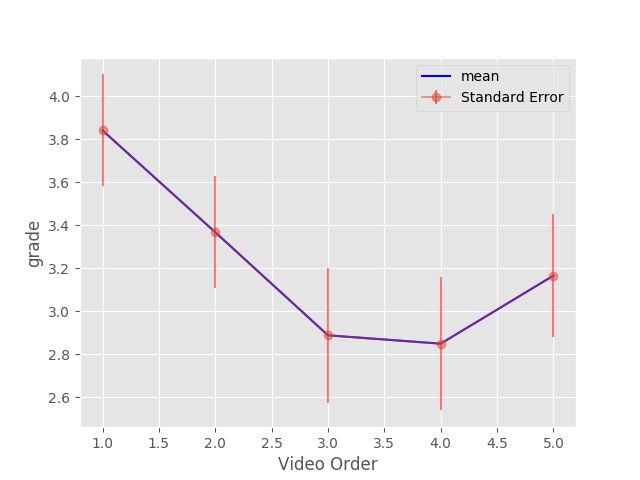
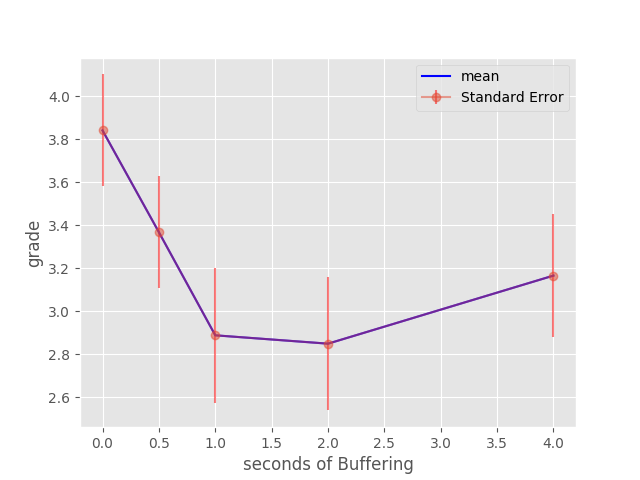
buffered wo first

diff --git a/data/plot_wo_first.py b/data/plot_wo_first.py
@@ -74,8 +74,8 @@ def plot_without_first():
         std_errs.append(se)
 
     # x axis configuration
-    x = range(1, count + 1)
-    x_label = "Video Order"
+    x = [0, 0.5, 1, 2, 4]
+    x_label = "seconds of Buffering"
 
     # Plot Graph
     plt.figure()
